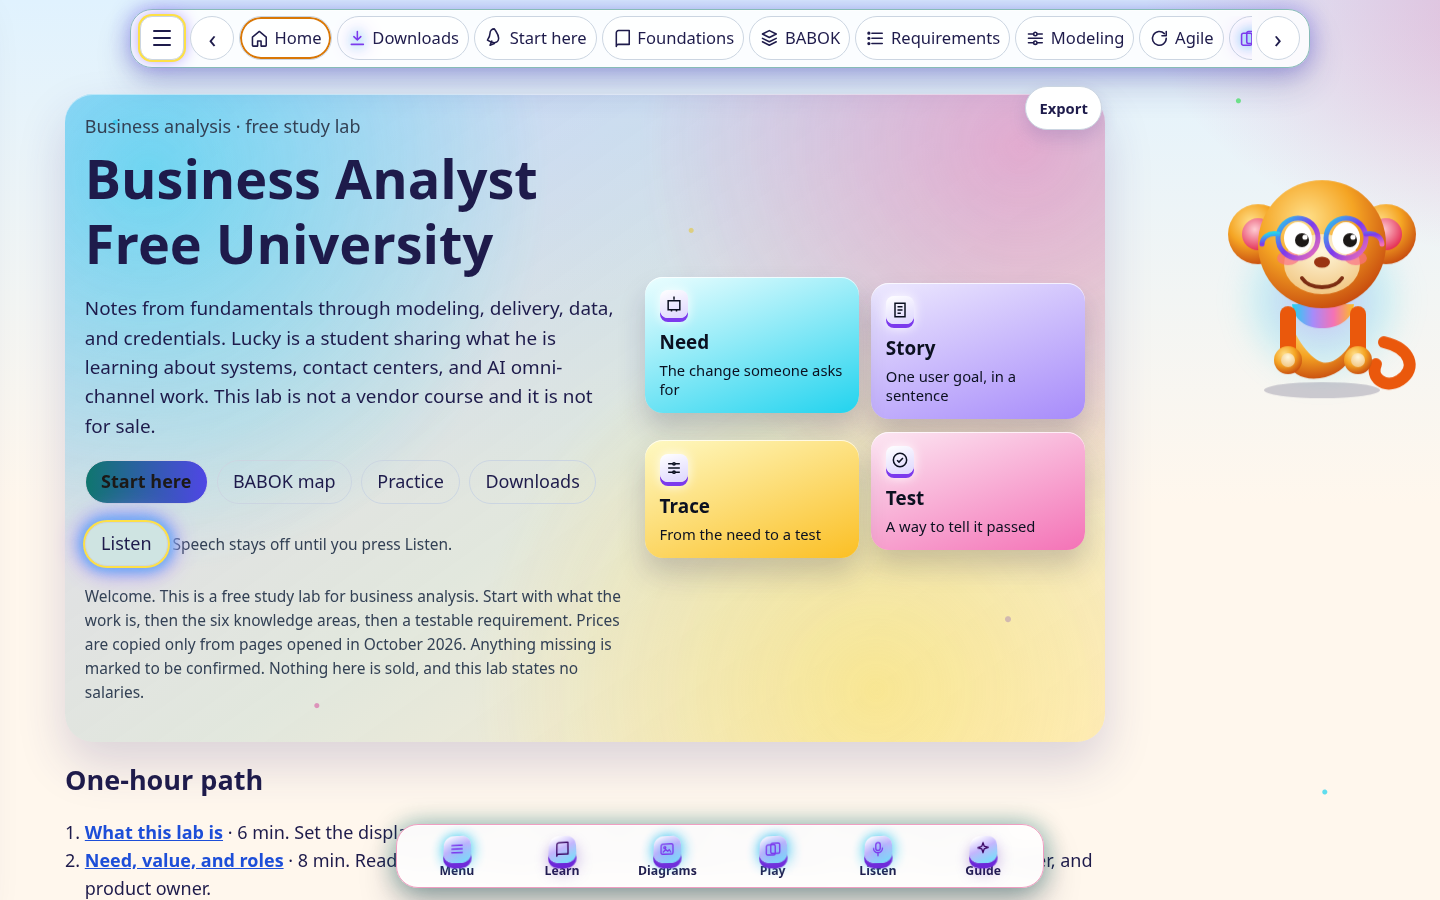
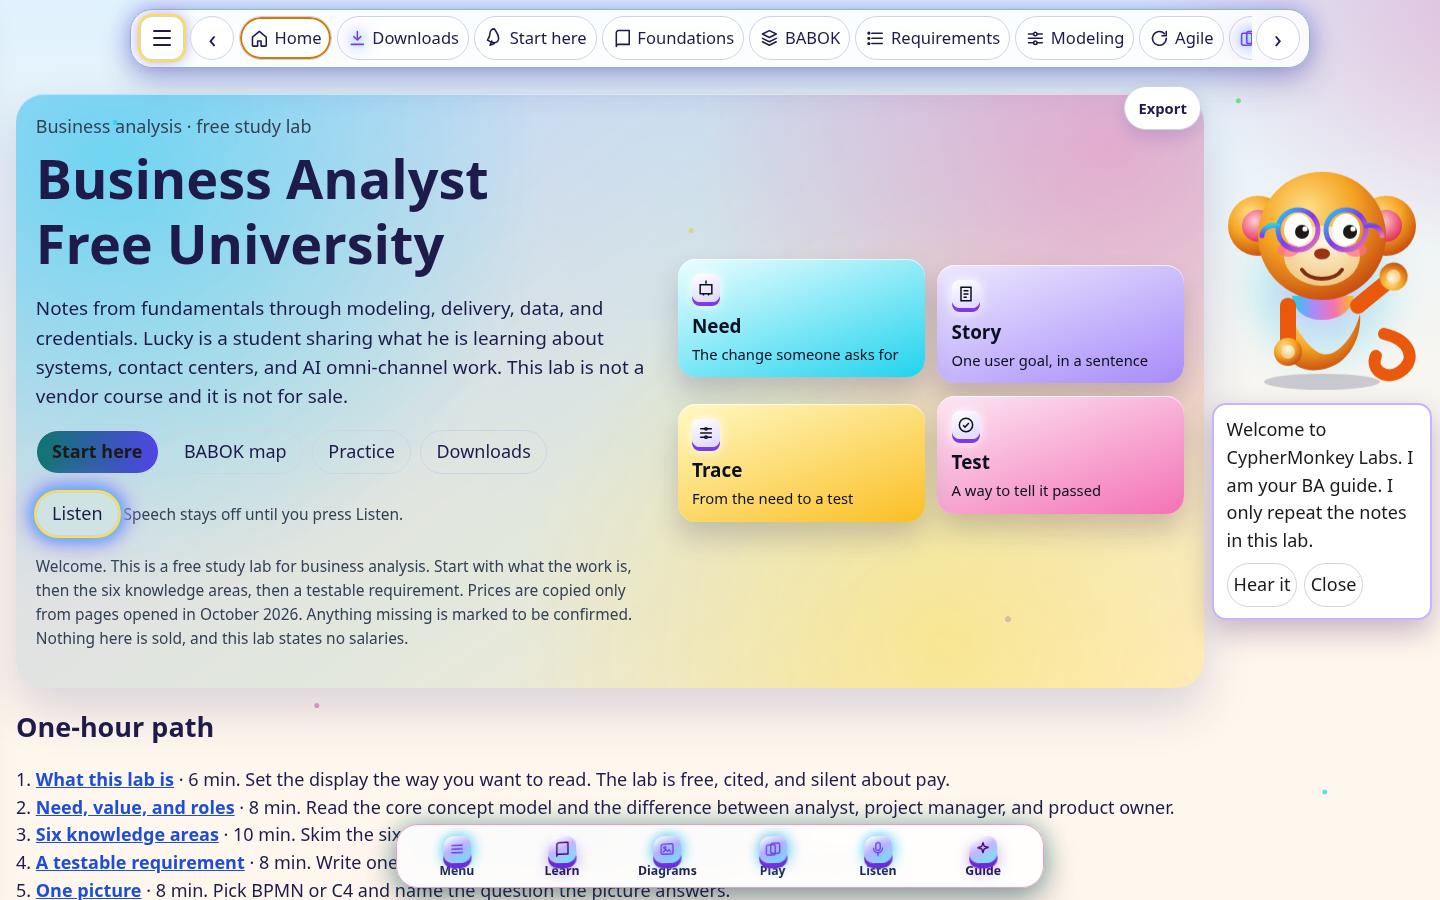
Dock the guide on the home page and collapse the tour (#3)
The first-visit tour no longer dims the page. Collapse tucks it away, and a later visit stays collapsed. On a wide home page the notes extend up to the guide, which talks from the right side of that first screen. Sources and the three brand links stay as they are.

Changed region(s): [[0.0, 0.0933, 1.0, 1.0], [0.3125, 0.4978, 0.4062, 0.56], [0.7188, 0.9333, 0.75, 0.9644]]

diff --git a/assets/js/onboard.js b/assets/js/onboard.js
@@ -36,7 +36,7 @@
     {
       title: "Downloads and the guide",
       selectors: ["a.chip[href='downloads.html']", ".ba-monkey"],
-      body: "Downloads holds the sheets, the card deck, and the zip. The monkey is the guide. After this tour it greets you once in the middle, then sits on the right edge. You can drag it and close it."
+      body: "Downloads holds the sheets, the card deck, and the zip. The monkey is the guide. On the home page it sits on the right and talks from there. You can drag it and close it. Collapse tucks this tour into a Tour button."
     }
   ];
 
@@ -130,12 +130,47 @@
     paintSpots(targets());
   }
 
+  var chip = null;
+  var resizeBound = false;
+
+  function removeChip() {
+    if (!chip) return;
+    chip.remove();
+    chip = null;
+  }
+
+  function showChip() {
+    if (chip || layer) return;
+    document.body.dataset.tour = "collapsed";
+    chip = document.createElement("button");
+    chip.type = "button";
+    chip.className = "ob-chip";
+    chip.textContent = "Tour";
+    chip.setAttribute("aria-expanded", "false");
+    chip.addEventListener("click", function () {
+      removeChip();
+      open();
+    });
+    document.body.appendChild(chip);
+  }
+
+  function collapse() {
+    if (window.speechSynthesis) window.speechSynthesis.cancel();
+    document.body.classList.remove("onboard-open");
+    if (layer) layer.remove();
+    layer = null;
+    ls(KEY, "collapsed");
+    try { localStorage.setItem("ba-onboard", "done"); } catch (err) { /* ignore */ }
+    showChip();
+  }
+
   function close(finished) {
     if (window.speechSynthesis) window.speechSynthesis.cancel();
     document.body.classList.remove("onboard-open");
     delete document.body.dataset.tour;
     if (layer) layer.remove();
     layer = null;
+    removeChip();
     try { localStorage.setItem("ba-onboard", "done"); } catch (err) { /* ignore */ }
     if (finished === "done") {
       ls(KEY, "1");
@@ -148,27 +183,33 @@
     }
   }
 
+  function onResize() {
+    if (layer && document.body.dataset.tour === "open") paintSpots(targets());
+  }
+
   function open() {
     if (layer) return;
+    removeChip();
     reduce = motionOff();
-    document.body.classList.add("onboard-open");
+    document.body.classList.remove("onboard-open");
     document.body.dataset.tour = "open";
+    if (ls(KEY) !== "1" && ls(KEY) !== "skip") ls(KEY, "shown");
     layer = document.createElement("div");
     layer.className = "ob-layer" + (reduce ? " is-still" : "");
     layer.setAttribute("role", "dialog");
-    layer.setAttribute("aria-modal", "true");
+    layer.setAttribute("aria-modal", "false");
     layer.setAttribute("aria-labelledby", "ob-title");
     layer.innerHTML =
       '<div class="ob-card"><p class="ob-count"><span class="ob-num" data-ob-num>1</span> <span data-ob-count></span></p><h2 id="ob-title"></h2><p class="ob-body"></p>' +
       '<div class="ob-actions">' +
       '<button type="button" data-ob-sound aria-pressed="false">Sound off</button>' +
       '<button type="button" data-ob-back hidden>Back</button>' +
+      '<button type="button" data-ob-collapse>Collapse</button>' +
       '<button type="button" data-ob-skip>Skip</button>' +
       '<button type="button" data-ob-next>Next</button></div></div>';
     document.body.appendChild(layer);
     step = 0;
     paint();
-    layer.querySelector("[data-ob-next]").focus();
     layer.addEventListener("click", function (event) {
       if (event.target.closest("[data-ob-sound]")) {
         soundOn = !soundOn;
@@ -184,6 +225,10 @@
         if (step > 0) { step -= 1; paint(); }
         return;
       }
+      if (event.target.closest("[data-ob-collapse]")) {
+        collapse();
+        return;
+      }
       if (event.target.closest("[data-ob-skip]")) {
         close("skip");
         return;
@@ -195,18 +240,12 @@
       }
     });
     layer.addEventListener("keydown", function (event) {
-      if (event.key === "Escape") close("skip");
+      if (event.key === "Escape") collapse();
     });
-    window.addEventListener("resize", function () {
-      if (layer) paintSpots(targets());
-    });
-  }
-
-  function shouldShow() {
-    var params = new URLSearchParams(location.search);
-    if (params.get("tour") === "1") return true;
-    if (navigator.webdriver) return false;
-    return !ls(KEY);
+    if (!resizeBound) {
+      window.addEventListener("resize", onResize);
+      resizeBound = true;
+    }
   }
 
   document.addEventListener("click", function (event) {
@@ -221,5 +260,11 @@
     open();
   };
 
-  if (shouldShow()) window.setTimeout(open, 500);
+  var params = new URLSearchParams(location.search);
+  if (params.get("tour") === "1") open();
+  else if (!navigator.webdriver) {
+    var state = ls(KEY);
+    if (!state) window.setTimeout(open, 500);
+    else if (state === "shown" || state === "collapsed") showChip();
+  }
 })();

diff --git a/assets/css/lab.css b/assets/css/lab.css
@@ -380,6 +380,13 @@ main {
     margin-right: 15rem;
   }
 }
+@media (min-width: 801px) {
+  body[data-page="home"] main {
+    width: calc(100% - 252px);
+    margin-left: 16px;
+    margin-right: 236px;
+  }
+}
 .hero {
   display: grid;
   grid-template-columns: 1.1fr 0.9fr;
@@ -975,21 +982,22 @@ main > h1 { margin-top: 3.15rem; padding-right: 0; }
 button.glow-ico[data-listen] { box-shadow: 0 0 0 2px #fde047, 0 0 16px #a78bfa; }
 .phone-bar a, .phone-bar button { display: flex; flex-direction: column; align-items: center; justify-content: center; gap: 1px; }
 .phone-bar svg { width: 18px; height: 18px; }
-.ob-layer { position: fixed; inset: 0; z-index: 80; pointer-events: none; }
+.ob-layer { position: fixed; inset: auto; z-index: 33; pointer-events: none; }
 .ob-spot {
   position: fixed;
-  z-index: 80;
+  z-index: 32;
   border-radius: 16px;
   pointer-events: none;
-  box-shadow: 0 0 0 9999px rgba(12, 6, 32, 0.72), 0 0 0 3px #fde047, 0 0 22px #c4b5fd;
+  box-shadow: 0 0 0 3px #fde047, 0 0 18px #c4b5fd;
 }
 .ob-card {
   position: fixed;
-  z-index: 82;
+  z-index: 33;
   pointer-events: auto;
-  left: 50%;
-  width: min(440px, calc(100vw - 24px));
-  transform: translateX(-50%);
+  left: 1rem;
+  bottom: 5.75rem;
+  width: min(400px, calc(100vw - 18rem));
+  transform: none;
   padding: 16px 16px 14px;
   border-radius: 22px;
   color: #1b1340;
@@ -997,17 +1005,40 @@ button.glow-ico[data-listen] { box-shadow: 0 0 0 2px #fde047, 0 0 16px #a78bfa; 
   border: 3px solid transparent;
   box-shadow: 0 18px 40px rgba(0, 0, 0, 0.35);
 }
-.ob-card.is-low { bottom: 24px; }
-.ob-card.is-high { top: 76px; }
+.ob-card.is-low, .ob-card.is-high { top: auto; bottom: 5.75rem; }
+.ob-chip {
+  position: fixed;
+  z-index: 33;
+  left: 1rem;
+  bottom: 5.75rem;
+  min-height: 44px;
+  border: 0;
+  border-radius: 999px;
+  padding: 8px 16px;
+  font: inherit;
+  font-weight: 800;
+  cursor: pointer;
+  color: #fff;
+  background: #7c3aed;
+  box-shadow: 0 10px 24px rgba(76, 29, 149, 0.35);
+}
 .ob-num { display: inline-grid; place-items: center; width: 28px; height: 28px; border-radius: 50%; background: #7c3aed; color: #fff; font-weight: 800; }
 .ob-card h2 { margin: 6px 0; font-size: 1.25rem; }
 .ob-card p { margin: 0 0 10px; line-height: 1.45; }
 .ob-actions { display: flex; flex-wrap: wrap; gap: 8px; }
 .ob-actions button { min-height: 44px; border: 0; border-radius: 999px; padding: 8px 14px; font: inherit; font-weight: 800; cursor: pointer; background: #ede9fe; color: #3b0764; }
 .ob-actions [data-ob-next] { background: #7c3aed; color: #fff; }
-body.onboard-open .ba-nudge { visibility: hidden; }
 @media (max-width: 800px) {
-  .ob-card.is-low { bottom: 72px; }
+  .ob-card, .ob-card.is-low, .ob-card.is-high {
+    left: 0.45rem;
+    right: auto;
+    width: calc(100vw - 216px);
+    top: auto;
+    bottom: 6.6rem;
+    max-height: 160px;
+    overflow: auto;
+  }
+  .ob-chip { left: 0.45rem; top: auto; bottom: 6.4rem; }
   .brand-icon { width: 62px; height: 62px; }
 }
 @media (prefers-reduced-motion: reduce) {

diff --git a/guide/guide.css b/guide/guide.css
@@ -9,15 +9,7 @@
   font-family: "Segoe UI", "Avenir Next", sans-serif;
   color: #1c1917;
 }
-.ba-guide.is-greeting {
-  left: 50%;
-  right: auto;
-  top: 42%;
-  width: 240px;
-  height: 284px;
-  transform: translate(-50%, -50%);
-  z-index: 74;
-}
+.ba-guide.is-greeting { z-index: 35; }
 body[data-menu="open"] .ba-guide { visibility: hidden; }
 .ba-monkey {
   position: relative;
@@ -33,7 +25,7 @@ body[data-menu="open"] .ba-guide { visibility: hidden; }
   box-shadow: none;
 }
 .ba-guide.is-greeting .ba-monkey,
-.ba-guide.is-greeting .ba-monkey svg { width: 240px; height: 284px; }
+.ba-guide.is-greeting .ba-monkey svg { width: 220px; height: 260px; }
 .ba-soft {
   position: absolute;
   z-index: 0;
@@ -62,12 +54,13 @@ body[data-menu="open"] .ba-guide { visibility: hidden; }
   box-shadow: 0 12px 30px rgba(49, 10, 90, 0.28);
 }
 .ba-guide.is-greeting .ba-nudge {
-  position: fixed;
-  left: 50%;
-  right: auto;
+  position: absolute;
+  left: auto;
+  right: 0;
   bottom: auto;
-  top: calc(42% + 150px);
-  transform: translateX(-50%);
+  top: calc(100% + 8px);
+  transform: none;
+  width: 220px;
 }
 .ba-nudge p { margin: 0 0 0.45rem; }
 .ba-nudge-actions { display: flex; flex-wrap: wrap; gap: 0.35rem; }
@@ -172,10 +165,18 @@ body[data-menu="open"] .ba-guide { visibility: hidden; }
 @media (max-width: 800px) {
   .ba-guide { top: auto; bottom: 5.7rem; width: 200px; height: 236px; }
   .ba-monkey, .ba-monkey svg { width: 200px; height: 236px; }
-  .ba-guide.is-greeting { width: 220px; height: 260px; }
+  .ba-guide.is-greeting { width: 200px; height: 236px; }
   .ba-guide.is-greeting .ba-monkey,
-  .ba-guide.is-greeting .ba-monkey svg { width: 220px; height: 260px; }
-  .ba-guide.is-greeting .ba-nudge { top: calc(42% + 138px); }
+  .ba-guide.is-greeting .ba-monkey svg { width: 200px; height: 236px; }
+  .ba-guide.is-greeting .ba-nudge {
+    position: fixed;
+    top: auto;
+    left: auto;
+    right: 0.45rem;
+    bottom: calc(4.6rem + 244px);
+    width: 200px;
+    transform: none;
+  }
   body:has(.ba-panel:not([hidden])) .ba-monkey { visibility: hidden; }
   .ba-panel {
     position: fixed;
@@ -226,3 +227,13 @@ html[data-motion="reduce"] .ba-head,
 html[data-motion="reduce"] .ba-soft,
 html[data-motion="reduce"] .is-reading { animation: none; }
 html[data-motion="reduce"] .is-reading { box-shadow: none; }
+@media (min-width: 801px) {
+  body[data-page="home"] .ba-nudge {
+    right: 0;
+    left: auto;
+    bottom: auto;
+    top: calc(100% + 8px);
+    width: 220px;
+    transform: none;
+  }
+}

diff --git a/guide/guide.js b/guide/guide.js
@@ -705,7 +705,6 @@ function onReady() {
   }
 }
 function applyDock() {
-  if (host.classList.contains("is-greeting")) return;
   if (typeof session.x === "number" && typeof session.y === "number") {
     var maxX = Math.max(0, window.innerWidth - host.offsetWidth);
     var maxY = Math.max(0, window.innerHeight - host.offsetHeight);
@@ -719,9 +718,13 @@ function applyDock() {
   }
   host.style.left = "auto";
   host.style.right = "8px";
+  host.style.transform = "none";
   if (window.matchMedia("(max-width: 800px)").matches) {
     host.style.top = "auto";
     host.style.bottom = "4.6rem";
+  } else if (document.body.dataset.page === "home") {
+    host.style.bottom = "auto";
+    host.style.top = "7.5rem";
   } else {
     host.style.bottom = "auto";
     host.style.top = "16%";
@@ -909,15 +912,16 @@ function beginGreet() {
   }
   greetClosed = false;
   host.classList.add("is-greeting");
-  host.style.right = "auto";
-  host.style.bottom = "auto";
-  host.style.left = "50%";
-  host.style.top = "46%";
-  host.style.transform = "translate(-50%, -50%)";
+  host.style.left = "";
+  host.style.top = "";
+  host.style.right = "";
+  host.style.bottom = "";
+  host.style.transform = "";
+  applyDock();
   pose("greeting");
   nudge.hidden = false;
   nudge.innerHTML = "<p>Welcome to CypherMonkey Labs. I am your BA guide. I only repeat the notes in this lab.</p>" +
-    '<div class="ba-nudge-actions"><button type="button" data-hear>Hear it</button><button type="button" data-dock>Dock on the right</button></div>';
+    '<div class="ba-nudge-actions"><button type="button" data-hear>Hear it</button><button type="button" data-dock>Close</button></div>';
   if (!force) window.setTimeout(function () { if (!greetClosed) endGreet(); }, 8000);
 }
 function schedulePoke() {
@@ -984,6 +988,7 @@ document.addEventListener("canon-tour-finished", beginGreet);
 document.addEventListener("canon-tour-skipped", schedulePoke);
 if (shotMode() === "greet") beginGreet();
 else if (shotMode() === "poke") showPoke();
+else if (document.body.dataset.page === "home" && storedFlag("ba-greet-done") !== "1") beginGreet();
 else if (storedFlag("canon-tour-done") === "1" && storedFlag("ba-greet-done") !== "1") beginGreet();
 else if (storedFlag("canon-tour-done")) schedulePoke();
 try {

diff --git a/assets/js/app.js b/assets/js/app.js
@@ -487,7 +487,7 @@
       '<p><button type="button" class="btn primary" id="replay-tour">Replay the tour</button></p>' +
       '<section class="callout"><h2>Menu</h2><p>Use the top-left button. The drawer slides in. Text size, theme, text color, reduced motion, and search are inside it. Escape or a tap on the dimmed page closes it. On a phone the same menu is the Menu button in the bottom bar.</p></section>' +
       '<section class="callout"><h2>Course</h2><p>Start here is the short path. The guide can also offer Finish in 10 minutes, Full course, or Just download. Full course reads a room, then opens the next room in the path.</p></section>' +
-      '<section class="callout"><h2>Guide</h2><p>The first visit walks Home, Menu, Learn, Diagrams, Play, Listen, Downloads, and the guide, with Next, Back, and Skip. After OK, the monkey greets once in the middle, then docks on the right. Drag it and this browser keeps the spot. It hides while the menu is open. A quiet offer may appear after a few idle minutes. Not now waits, and Stop offering remembers. Voice and the soft sound stay off until you choose them.</p></section>' +
+      '<section class="callout"><h2>Guide</h2><p>The first visit walks Home, Menu, Learn, Diagrams, Play, Listen, Downloads, and the guide, with Next, Back, Collapse, and Skip. The tour does not cover the page. Collapse tucks it into a Tour button, and later visits stay collapsed. The monkey talks from the right side of the home page. Drag it and this browser keeps the spot. It hides while the menu is open. A quiet offer may appear after a few idle minutes. Not now waits, and Stop offering remembers. Voice and the soft sound stay off until you choose them.</p></section>' +
       '<section class="callout"><h2>Downloads</h2><p>Export on a room or a section offers PDF, HTML, DOCX, PPTX, and JSON for that room. The Downloads page lists every file, with Open app and View repo. Each file is meant to open on its own and includes the disclaimer.</p></section>';
     var replay = document.getElementById("replay-tour");
     if (replay) replay.addEventListener("click", function () {
